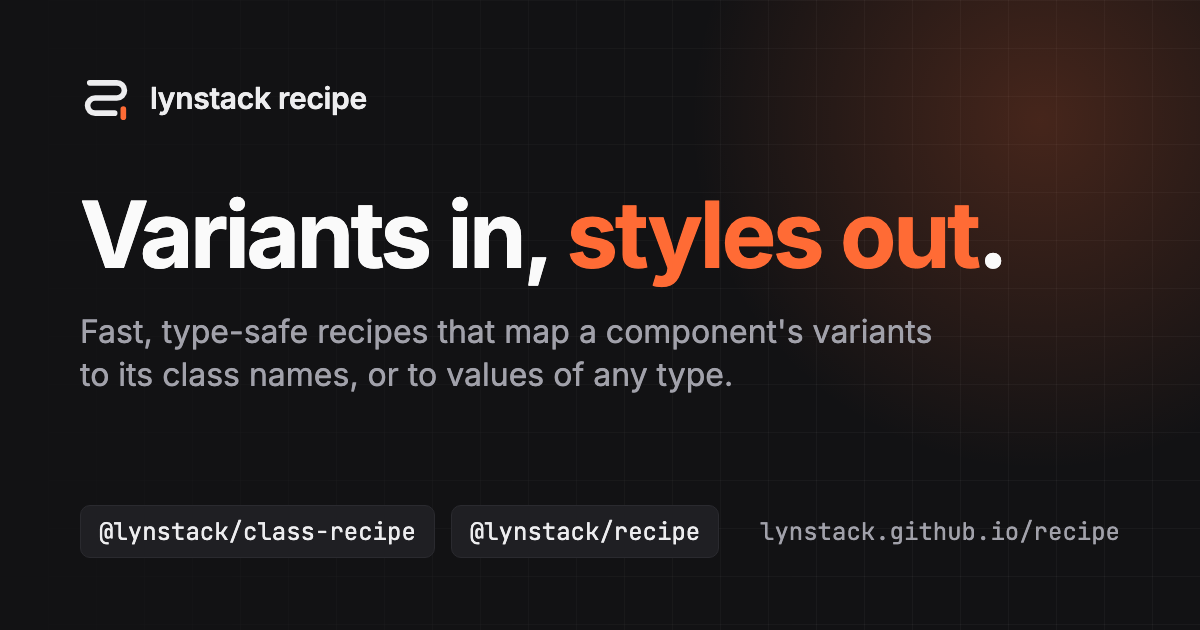
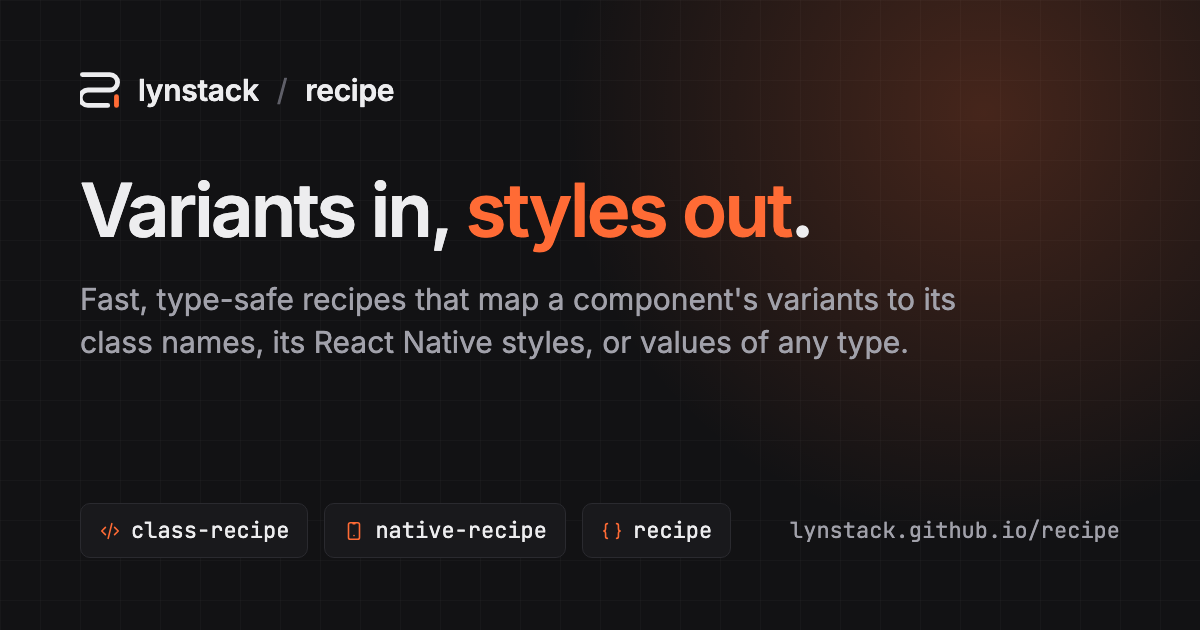
docs: add structured data and an Open Graph image for each package
- A route middleware adds schema.org data to every page but the 404: the
  site, the packages the page is about, and the page, a WebPage on the
  landing page and a TechArticle on the pages of a package.
- Each package has its own Open Graph image, and the landing page's image
  lists all three packages.

diff --git a/docs/src/seo.ts b/docs/src/seo.ts
@@ -1,0 +1,154 @@
+import { findPackage, packages } from "./packages.ts";
+import type { PackageIconName } from "./package-icons.ts";
+import type { PackageInfo } from "./packages.ts";
+
+/** An element of the `<head>` of a page, as Starlight renders it. */
+interface HeadEntry {
+  readonly tag: "meta" | "script";
+  readonly attrs: Readonly<Record<string, string>>;
+  readonly content?: string;
+}
+
+/** What a page tells search engines and link previews about itself. */
+interface PageInfo {
+  /** The URL of the docs' home page, ending with a slash. */
+  readonly siteUrl: string;
+  readonly pageUrl: string;
+  readonly siteTitle: string;
+  readonly title: string;
+  readonly description: string;
+  /** The first segment of the page's path, which names its package, if any. */
+  readonly folder: string;
+}
+
+/** An Open Graph image in `public`, which matches its text alternative. */
+interface OpenGraphImage {
+  readonly path: string;
+  readonly alt: string;
+}
+
+/** A node of schema.org data. */
+type LinkedData = Readonly<Record<string, unknown>>;
+
+/** A node of schema.org data that other nodes refer to by its `@id`. */
+interface LinkedNode extends LinkedData {
+  readonly "@id": string;
+}
+
+const landingImage: OpenGraphImage = {
+  alt: "lynstack recipe: variants in, styles out. Fast, type-safe recipes that map a component's variants to its class names, its React Native styles, or values of any type.",
+  path: "og.png",
+};
+
+const packageImages = {
+  "class-recipe": {
+    alt: "lynstack class-recipe: variants in, class names out. cva, sva, and cx, a drop-in replacement for clsx.",
+    path: "og/class-recipe.png",
+  },
+  "native-recipe": {
+    alt: "lynstack native-recipe: variants in, styles out. React Native style recipes that return the same frozen style for the same variants.",
+    path: "og/native-recipe.png",
+  },
+  recipe: {
+    alt: "lynstack recipe: variants in, values out. The engine for recipes of any type.",
+    path: "og/recipe.png",
+  },
+} as const satisfies Readonly<Record<PackageIconName, OpenGraphImage>>;
+
+const imagesByFolder: ReadonlyMap<string, OpenGraphImage> = new Map(
+  Object.entries(packageImages),
+);
+
+function openGraphProperty(property: string, content: string): HeadEntry {
+  return { attrs: { content, property }, tag: "meta" };
+}
+
+function openGraphImageTags(siteUrl: string, folder: string): HeadEntry[] {
+  const image = imagesByFolder.get(folder) ?? landingImage;
+  return [
+    openGraphProperty("og:image", `${siteUrl}${image.path}`),
+    openGraphProperty("og:image:width", "1200"),
+    openGraphProperty("og:image:height", "630"),
+    openGraphProperty("og:image:alt", image.alt),
+  ];
+}
+
+function packageNode(
+  siteUrl: string,
+  folder: string,
+  pkg: PackageInfo,
+): LinkedNode {
+  const url = `${siteUrl}${folder}/`;
+  return {
+    "@id": `${url}#package`,
+    "@type": "SoftwareSourceCode",
+    codeRepository: pkg.source,
+    description: pkg.summary,
+    license: `https://spdx.org/licenses/${pkg.license}.html`,
+    name: pkg.name,
+    programmingLanguage: "TypeScript",
+    url,
+    version: pkg.version,
+  };
+}
+
+/**
+ * Describes the site, the page, and the packages it is about as schema.org
+ * data: the landing page is a `WebPage` about every package, and a page of
+ * a package is a `TechArticle` about that package.
+ */
+function structuredData(page: PageInfo): LinkedData {
+  const websiteId = `${page.siteUrl}#website`;
+  const pkg = findPackage(page.folder);
+  const about = pkg
+    ? [packageNode(page.siteUrl, page.folder, pkg)]
+    : Object.entries(packages).map(
+        ([folder, info]: readonly [string, PackageInfo]) =>
+          packageNode(page.siteUrl, folder, info),
+      );
+  return {
+    "@context": "https://schema.org",
+    "@graph": [
+      {
+        "@id": websiteId,
+        "@type": "WebSite",
+        inLanguage: "en",
+        name: page.siteTitle,
+        url: page.siteUrl,
+      },
+      ...about,
+      {
+        "@id": page.pageUrl,
+        "@type": pkg ? "TechArticle" : "WebPage",
+        about: about.map((node) => ({ "@id": node["@id"] })),
+        description: page.description,
+        headline: page.title,
+        inLanguage: "en",
+        isPartOf: { "@id": websiteId },
+        url: page.pageUrl,
+      },
+    ],
+  };
+}
+
+/** Serializes `data` for a `<script>`, which must not contain `</script>`. */
+function jsonLd(data: LinkedData): HeadEntry {
+  return {
+    attrs: { type: "application/ld+json" },
+    content: JSON.stringify(data).replaceAll("<", String.raw`<`),
+    tag: "script",
+  };
+}
+
+/**
+ * Returns the elements that a page adds to its `<head>`: the Open Graph
+ * image of its package, or of the landing page, and its structured data.
+ * The 404 page gets the image only.
+ */
+function seoHead(page: PageInfo, isNotFound: boolean): HeadEntry[] {
+  const image = openGraphImageTags(page.siteUrl, page.folder);
+  return isNotFound ? image : [...image, jsonLd(structuredData(page))];
+}
+
+export { seoHead };
+export type { PageInfo };

diff --git a/docs/src/packages.ts b/docs/src/packages.ts
@@ -12,6 +12,10 @@ interface PackageInfo {
   readonly name: string;
   /** The version in the repository, which is the one on npm after a release. */
   readonly version: string;
+  /** The description of the package on npm. */
+  readonly summary: string;
+  /** The SPDX identifier of the package's license. */
+  readonly license: string;
   /** What the package makes recipes for, in a word or two. */
   readonly label: string;
   /** The package's page on npm. */
@@ -49,17 +53,24 @@ function snackUrl(dependency: string, code: string): string {
 
 function packageInfo(
   folder: PackageIconName,
-  manifest: { readonly name: string; readonly version: string },
+  manifest: {
+    readonly name: string;
+    readonly version: string;
+    readonly description: string;
+    readonly license: string;
+  },
   { label, playground }: Pick<PackageInfo, "label" | "playground">,
 ): PackageInfo {
   return {
     changelog: `${repository}/blob/main/packages/${folder}/CHANGELOG.md`,
     label,
+    license: manifest.license,
     name: manifest.name,
     npm: `https://www.npmjs.com/package/${manifest.name}`,
     playground,
     requirements: `/recipe/${folder}/installation/#requirements`,
     source: `${repository}/tree/main/packages/${folder}`,
+    summary: manifest.description,
     version: manifest.version,
   };
 }

diff --git a/docs/astro.config.ts b/docs/astro.config.ts
@@ -49,26 +49,6 @@ export default defineConfig({
       favicon: "/favicon.svg",
       head: [
         {
-          attrs: { content: `${site}${base}/og.png`, property: "og:image" },
-          tag: "meta",
-        },
-        {
-          attrs: { content: "1200", property: "og:image:width" },
-          tag: "meta",
-        },
-        {
-          attrs: { content: "630", property: "og:image:height" },
-          tag: "meta",
-        },
-        {
-          attrs: {
-            content:
-              "lynstack recipe: variants in, styles out. Fast, type-safe recipes for class names and styles.",
-            property: "og:image:alt",
-          },
-          tag: "meta",
-        },
-        {
           attrs: { href: "https://fonts.googleapis.com", rel: "preconnect" },
           tag: "link",
         },
@@ -217,6 +197,7 @@ export default defineConfig({
           },
         ]),
       ],
+      routeMiddleware: "./src/route-data.ts",
       social: [{ href: repository, icon: "github", label: "GitHub" }],
       title: "lynstack recipe",
     }),

diff --git a/docs/src/route-data.ts b/docs/src/route-data.ts
@@ -1,0 +1,20 @@
+import { defineRouteMiddleware } from "@astrojs/starlight/route-data";
+
+import { seoHead } from "./seo.ts";
+
+export const onRequest = defineRouteMiddleware(({ locals, site, url }) => {
+  const route = locals.starlightRoute;
+  route.head.push(
+    ...seoHead(
+      {
+        description: route.entry.data.description ?? "",
+        folder: route.id.split("/")[0] ?? "",
+        pageUrl: new URL(url.pathname, site).href,
+        siteTitle: route.siteTitle,
+        siteUrl: new URL("/recipe/", site).href,
+        title: route.entry.data.title,
+      },
+      route.id === "404",
+    ),
+  );
+});
